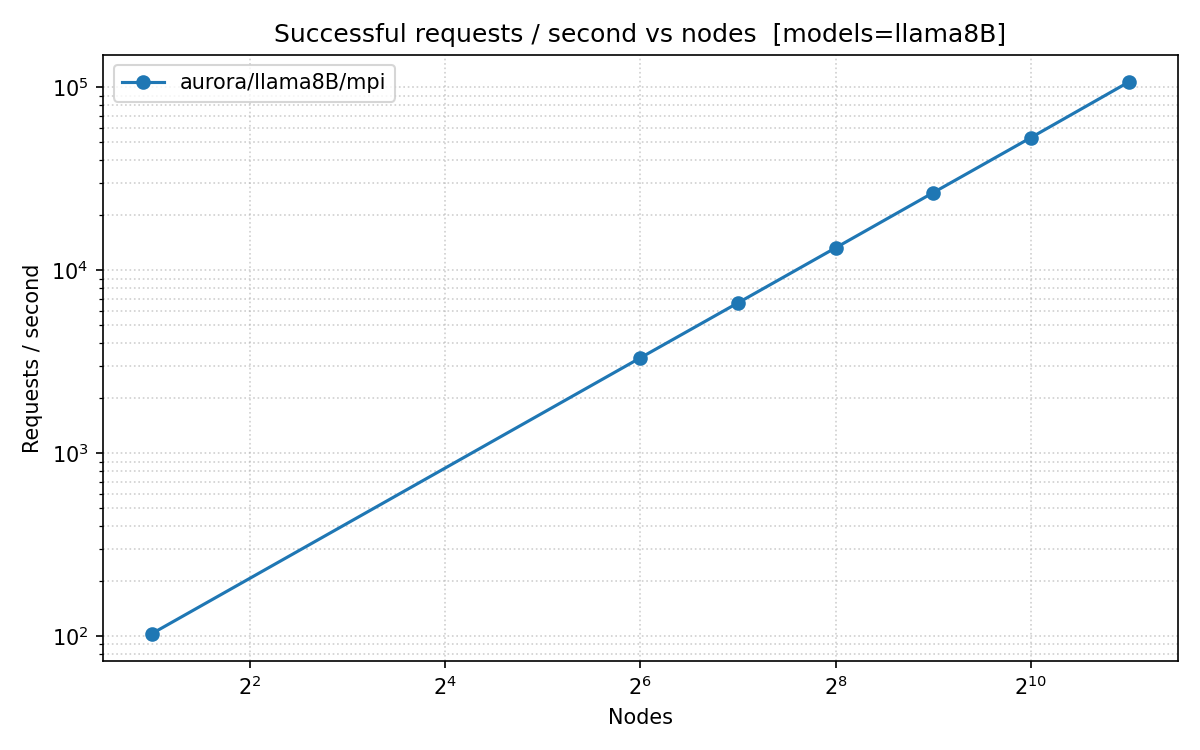
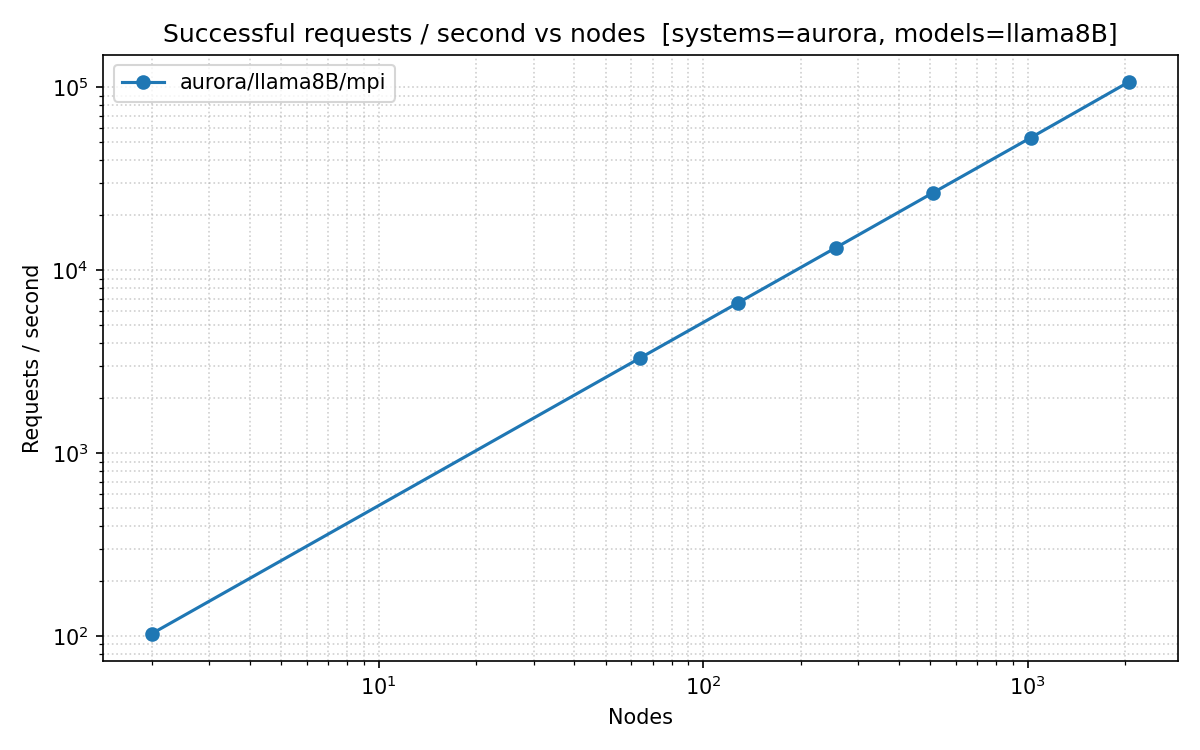
Add performance for Polaris

diff --git a/AI_ML/LLM_Inference/README.md b/AI_ML/LLM_Inference/README.md
@@ -14,13 +14,13 @@ Additionally, it may also be necessary to serve differenct models tailored to di
 Due to the increased complexity of such workflows, the MPI based solution is less likely and instead workflow tools provide efficient and scalable solutions by routing the prompts to the various inference engines as they are generated.
 In the context of vLLM, this is the classic fit for the `vllm serve` CLI command, however we'll see that the Python `LLM()` API can still be used when wrapping it around a workflow harness such as EL and Dragon to proivide both the request-driven advantage `vllm serve` and the high-throuput of the Python `LLM()` API.
 
-Below we compare the weak-scaling performance of batched and request-driven approaches implemented with different workflow tools on Aurora. The tests deploy one engine per PVC tile (12 per node) with the Llama 3.1 8B model and perform 32 prompt requests per inference engine based on the [prompts.jsonl](./utils/prompts.jsonl) file (the length of the response is limited to `max_model_len=8192` and for offline LLM the batch size is set to 16).
+Below we compare the weak-scaling performance of batched and request-driven approaches implemented with different workflow tools on Aurora. The tests deploy one engine per PVC tile (12 per node) with the Llama 3.1 8B model and perform 32 prompt requests per inference engine based on the [prompts.jsonl](./utils/prompts.jsonl) file (the length of the response is limited to 128 tokens, `max_model_len=8192` and for offline LLM the batch size is set to 16).
 
-![Weak scaling tests of LLM inference with various approaches on Aurora. The tests deploy one engine per PVC tile (12 per node) with the Llama 3.1 8B model and perform 32 prompt requests per inference engine based on the [prompts.jsonl](./utils/prompts.jsonl) file.](./utils/requests_per_second_aurora.png)
+![Weak scaling tests of LLM inference with various approaches on Aurora. The tests deploy one engine per PVC tile (12 per node) with the Llama 3.1 8B model and perform 32 prompt requests per inference engine based on the [prompts.jsonl](./utils/prompts.jsonl) file. The length of the response is limited to 128 tokens, `max_model_len=8192` and for offline LLM the batch size is set to 16.](./utils/requests_per_second_aurora.png)
 
 Below, we show performance of the same weak scaling tets on Polaris (one engine per A100 GPU).
 
-![Weak scaling tests of LLM inference with various approaches on Polaris. The tests deploy one engine per A100 GPU (4) per node) with the Llama 3.1 8B model and perform 32 prompt requests per inference engine based on the [prompts.jsonl](./utils/prompts.jsonl) file.](./utils/requests_per_second_polaris.png)
+![Weak scaling tests of LLM inference with various approaches on Polaris. The tests deploy one engine per A100 GPU (4) per node) with the Llama 3.1 8B model and perform 32 prompt requests per inference engine based on the [prompts.jsonl](./utils/prompts.jsonl) file. The length of the response is limited to 128 tokens, `max_model_len=8192` and for offline LLM the batch size is set to 16.](./utils/requests_per_second_polaris.png)
 
 
 ## Choosing the Correct Scaling Approach
